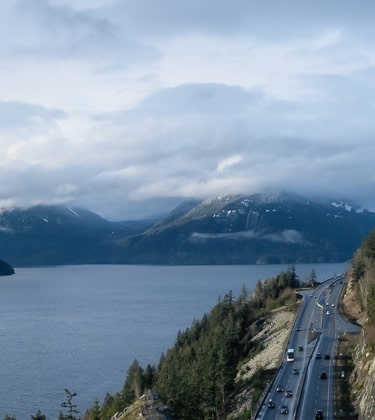
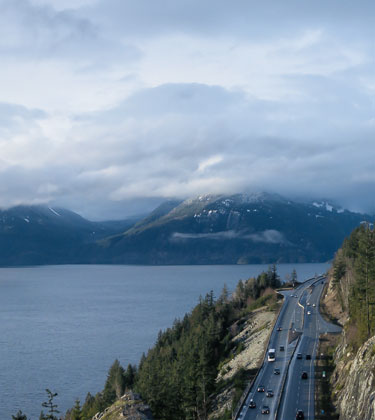
Update images

diff --git a/src/frontend/citizen-portal/src/app/components/landing/landing.component.scss b/src/frontend/citizen-portal/src/app/components/landing/landing.component.scss
@@ -41,9 +41,9 @@ h4 {
   }
 }
 
-// @media (max-width: 400px) {
+// @media (min-width: 376px) and (max-width: 400px) {
 //   div.landing-summary {
-//     background: url("/assets/landing-page-background-400x500.jpg") no-repeat !important;
+//     background: url("/assets/landing-page-background-400x420.jpg") no-repeat !important;
 //     -webkit-background-size: cover;
 //     -moz-background-size: cover;
 //     -o-background-size: cover;
@@ -51,17 +51,17 @@ h4 {
 //   }
 // }
 
-// @media (max-width: 600px) {
-//   div.landing-summary {
-//     background: url("/assets/landing-page-background-600x300.jpg") no-repeat !important;
-//     -webkit-background-size: cover;
-//     -moz-background-size: cover;
-//     -o-background-size: cover;
-//     background-size: cover;
-//   }
-// }
+@media (min-width: 376px) and (max-width: 600px) {
+  div.landing-summary {
+    background: url("/assets/landing-page-background-600x420.jpg") no-repeat !important;
+    -webkit-background-size: cover;
+    -moz-background-size: cover;
+    -o-background-size: cover;
+    background-size: cover;
+  }
+}
 
-@media (min-width: 376px) and (max-width: 768px) {
+@media (min-width: 601px) and (max-width: 768px) {
   div.landing-summary {
     background: url("/assets/landing-page-background-768x420.jpg") no-repeat !important;
     -webkit-background-size: cover;
